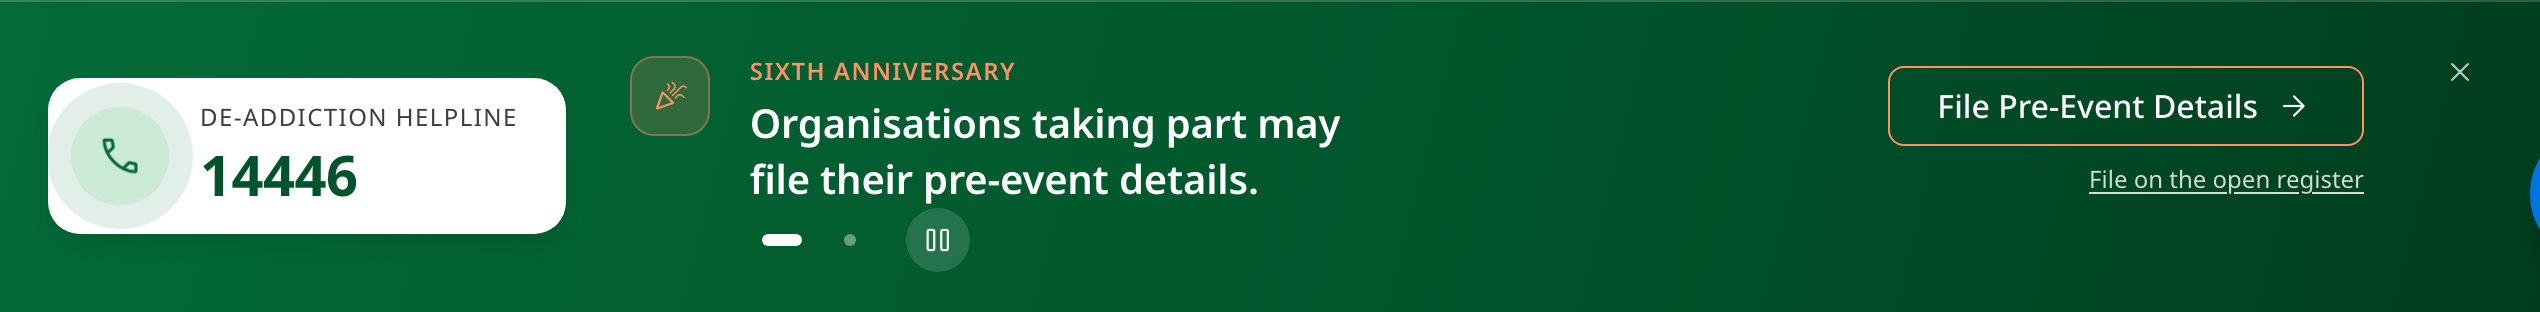
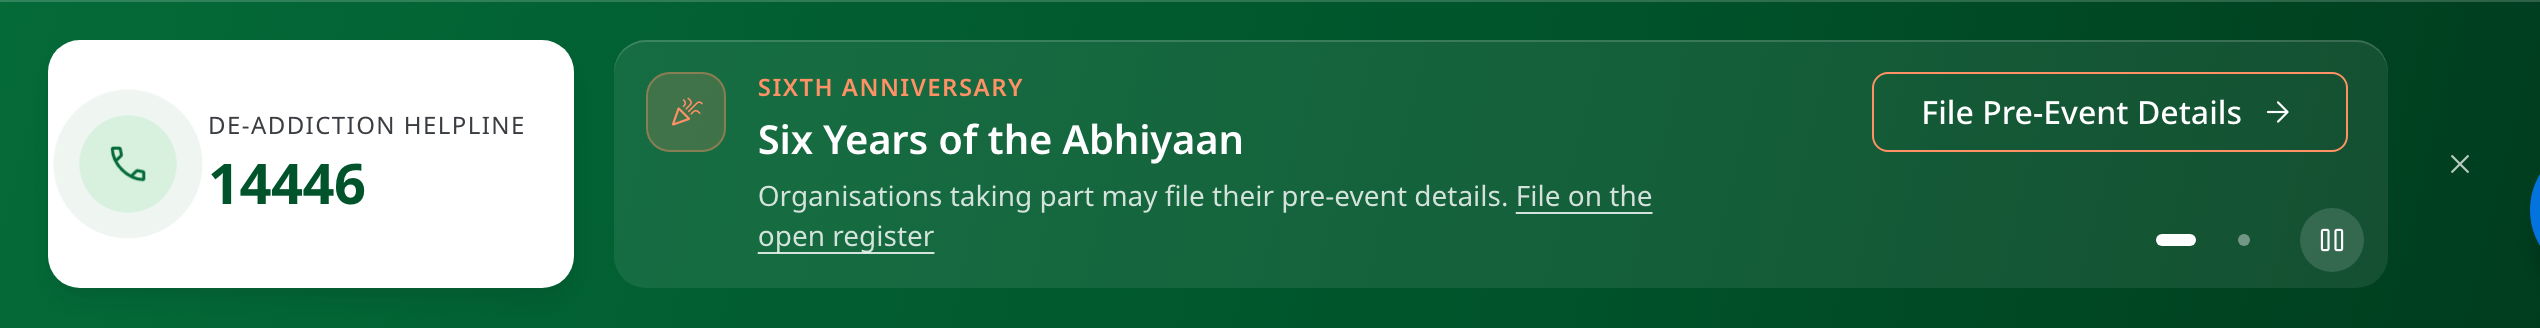
ds(explorations): the composed band, audited before it was shown
The first composition was four loose objects on a green field. Only the helpline
read as a thing; the rest was text and a button sitting on colour, so the band
said "one card and some writing" when it had to say "a number you can always
call, and a notice that changes".

THE STORY IS TOLD BY MATERIAL, NOT BY LABELS. Both halves are cards now, sharing
a top and a bottom edge: solid white is permanent, translucent glass is the half
that turns. A reader gets that before reading a word, and a label that says what
a shape already says is chrome.

BOTH PANELS TAKE THE SAME COPY SHAPE. One was an eyebrow over a sentence and the
other an eyebrow, heading, body and code — same box, different density, so the
band felt unsettled as it turned. The observance now uses the record's own
eyebrow as its heading and its sentence as the body: the department's words in
both slots, no invention.

THREE DEFECTS FOUND BY TESTING RATHER THAN LOOKING. The pager was UNCLICKABLE —
it shares the offer's grid cell, which is what makes the stage the height of its
tallest panel, so the offer painted over it and swallowed every click while
remaining perfectly visible. The pager also collided with the second route,
which has moved into the prose where it belongs, because "file on the open
register" is a condition attached to the offer and not a peer of the button. And
the reserved code track cost the panel without a code 104px of measure to hold
an action that flushing right already holds.
[…]

diff --git a/apps/hub/src/components/explorations/nmba/composed-band.css b/apps/hub/src/components/explorations/nmba/composed-band.css
@@ -29,11 +29,24 @@
       0 8px 20px -8px color-mix(in srgb, var(--sa-color-successScale-900) 60%, transparent);
   }
 
+  /*
+   * ── TWO CARDS ON ONE GROUND, AND THAT IS THE WHOLE STORY ────────────────
+   *
+   * The first pass put four loose objects on a green field: a white pill, an
+   * icon, some text, a button. Only the pill read as a THING, so the band said
+   * "one card and some writing" — not "a number you can always call, and a
+   * notice that changes".
+   *
+   * Both halves are cards now, sharing a top and a bottom edge, and the
+   * MATERIAL says which is which. Solid white is permanent; translucent glass
+   * is the one that turns. A reader gets that before reading a word, which is
+   * the only way a band this size can explain itself.
+   */
   .cband__inner {
     display: grid;
     grid-template-columns: auto minmax(0, 1fr) auto;
     align-items: stretch;
-    column-gap: var(--sa-inline-32);
+    column-gap: var(--sa-inline-20);
     padding-block: var(--sa-padding-20);
   }
 
@@ -47,8 +60,7 @@
     display: flex;
     align-items: center;
     gap: var(--sa-inline-16);
-    align-self: center;
-    padding: var(--sa-padding-12) var(--sa-padding-24) var(--sa-padding-12) var(--sa-padding-12);
+    padding: var(--sa-padding-16) var(--sa-padding-24) var(--sa-padding-16) var(--sa-padding-16);
     border-radius: var(--sa-shape-16);
     background-color: var(--sa-bg-neutral-base);
     color: var(--sa-color-successScale-700);
@@ -148,11 +160,24 @@
    * one and the band never resizes as it turns. `visibility: hidden` keeps the
    * inactive panel's space where `display: none` would collapse it.
    */
+  /*
+   * THE STAGE IS THE SECOND CARD — translucent, because it is the half that
+   * changes. Light catches its top edge the way it catches the band's, so it
+   * reads as a pane of glass laid on the green rather than a hole cut in it.
+   *
+   * Never a light translucent surface on another light one: the ground beneath
+   * is the band's own gradient, and the helpline beside it is solid.
+   */
   .cband__stage {
+    position: relative;
     display: grid;
     grid-template-areas: "offer";
     align-items: center;
-    padding-block-end: var(--sa-padding-24);
+    padding: var(--sa-padding-16) var(--sa-padding-20) var(--sa-padding-16) var(--sa-padding-16);
+    border-radius: var(--sa-shape-16);
+    background-color: color-mix(in srgb, var(--sa-text-neutral-inverse) 8%, transparent);
+    box-shadow: inset 0 var(--sa-stroke-1) 0 0
+      color-mix(in srgb, var(--sa-text-neutral-inverse) 16%, transparent);
   }
 
   /*
@@ -164,15 +189,18 @@
    * seconds. An element that persists across a transition must not move during
    * it; that is the difference between a panel changing and the band twitching.
    *
-   * The code's column is reserved at its own width whether or not a code is in
-   * it. An empty track is the price of a button that stays put.
+   * The code's column was reserved at 88px whether or not a code was in it, to
+   * hold the action still. It no longer has to: flushing the actions RIGHT does
+   * that on its own, and the empty track was costing the panel without a code
+   * 104px of measure — enough to wrap "File on the open register" mid-phrase.
+   * `auto` collapses it where there is no code, and the button does not move.
    */
   .cband__offer {
     grid-area: offer;
     display: grid;
-    grid-template-columns: auto minmax(0, 1fr) 88px auto;
+    grid-template-columns: auto minmax(0, 1fr) auto auto;
     align-items: center;
-    gap: var(--sa-inline-20);
+    gap: var(--sa-inline-16);
     visibility: hidden;
     opacity: 0;
     transform: translateY(6px);
@@ -285,11 +313,14 @@
    * "Register Now" adrift in ninety pixels of empty button; sharing the RIGHT
    * edge is what right-set actions do anyway, and it costs nothing.
    */
+  /* One control now, so the column is just the button — and the pager below it
+     has the corner to itself. */
   .cband__offer-actions {
     grid-column: 4;
     display: flex;
     flex-direction: column;
     align-items: flex-end;
+    align-self: start;
     gap: var(--sa-stack-8);
   }
 
@@ -298,7 +329,7 @@
   }
 
   .cband__alt {
-    font-size: var(--sa-type-label-3-size);
+    font-size: inherit;
     color: color-mix(in srgb, var(--sa-text-neutral-inverse) 82%, transparent);
     text-decoration: underline;
     text-underline-offset: 0.2em;
@@ -308,16 +339,31 @@
      Its scope is the only thing its position has to explain, so it sits under
      the rotating panel and nowhere near the band's own dismiss. */
 
-  /* Aligned with the COPY column, not the glyph: the pager belongs to the words
-     it pages, and a control that lines up with nothing reads as debris. */
+  /*
+   * THE PAGER IS INSIDE THE CARD IT PAGES.
+   *
+   * It floated in dead space under the copy, lined up with nothing, which is how
+   * a control comes to read as debris. Sitting in the glass card's own bottom
+   * corner it needs no explaining: this card turns, and this is what turns it.
+   */
+  /*
+   * IT HAS TO SIT ABOVE THE PANEL, because it shares the panel's grid cell.
+   *
+   * The offer and the pager are both `grid-area: offer` — that is what makes the
+   * stage the height of its tallest panel — so the offer paints over the pager
+   * and swallowed every click on the dots. Caught by driving a real click, not
+   * by looking: the control was perfectly visible the entire time.
+   */
   .cband__pager {
+    position: relative;
+    z-index: var(--sa-z-raised);
     grid-area: offer;
-    place-self: end start;
+    place-self: end end;
     display: flex;
     align-items: center;
     gap: var(--sa-inline-4);
-    margin-inline-start: calc(var(--sa-control-height-md) + var(--sa-inline-20));
-    margin-block-end: calc(-1 * var(--sa-padding-24));
+    margin-block-end: calc(-1 * var(--sa-padding-8));
+    margin-inline-end: calc(-1 * var(--sa-padding-8));
   }
 
   .cband__dots {
@@ -380,10 +426,12 @@
 
   /* ── The band's own dismiss, at the band's own corner ─────────────────── */
 
+  /* On the GROUND, between the cards and the band's edge, vertically centred —
+     it belongs to the band, so it stands outside both of them. */
   .cband__dismiss {
     display: grid;
     place-items: center;
-    align-self: start;
+    align-self: center;
     inline-size: var(--sa-control-height-sm);
     block-size: var(--sa-control-height-sm);
     border-radius: var(--sa-shape-8);

diff --git a/apps/hub/src/components/explorations/nmba/ComposedBandOption.tsx b/apps/hub/src/components/explorations/nmba/ComposedBandOption.tsx
@@ -52,7 +52,8 @@ const OFFERS = [
     accent: "saffron",
     icon: "celebration",
     eyebrow: "Sixth Anniversary",
-    heading: NMBA.ribbon.text,
+    heading: NMBA.ribbon.eyebrow,
+    body: NMBA.ribbon.text,
     action: { label: NMBA.ribbon.action.label, href: NMBA.ribbon.action.href, icon: "arrow_forward" },
     alt: NMBA.ribbon.alt,
     qr: null,
@@ -169,7 +170,27 @@ export function ComposedBand() {
                   <div className="cband__offer-copy">
                     <p className="cband__offer-eyebrow">{o.eyebrow}</p>
                     <p className="cband__offer-heading">{o.heading}</p>
-                    {"body" in o && o.body ? <p className="cband__offer-body">{o.body}</p> : null}
+                    <p className="cband__offer-body">
+                      {o.body}
+                      {/*
+                       * THE SECOND ROUTE IS A NOTE ON THE OFFER, NOT A PEER OF
+                       * THE BUTTON.
+                       *
+                       * Stacked under the action it made three things share one
+                       * corner — button, link, pager — and the pager ended up
+                       * touching the link. It is also the wrong reading: "file
+                       * on the open register" is a condition attached to the
+                       * offer, and conditions live with the prose.
+                       */}
+                      {"alt" in o && o.alt ? (
+                        <>
+                          {" "}
+                          <a className="cband__alt" href={o.alt.href}>
+                            {o.alt.label}
+                          </a>
+                        </>
+                      ) : null}
+                    </p>
                   </div>
 
                   {o.qr ? (
@@ -188,11 +209,6 @@ export function ComposedBand() {
                       <span>{o.action.label}</span>
                       <Icon name={o.action.icon} size={20} aria-hidden />
                     </a>
-                    {"alt" in o && o.alt ? (
-                      <a className="cband__alt" href={o.alt.href}>
-                        {o.alt.label}
-                      </a>
-                    ) : null}
                   </div>
                 </div>
               ))}

diff --git a/docs/audit/nmba-page-audit-2026-09-08.md b/docs/audit/nmba-page-audit-2026-09-08.md
@@ -1189,3 +1189,54 @@ a filled well at rest: at 78% ink on a dark ground it was a hairline.
 Anchoring verified: glyph at x=400 and CTA right edge at 1267 on **both** panels.
 
 Stills: `cband-1.png`, `cband-2.png`, `cband-both.png`.
+
+---
+
+## 22. The composed band, audited by its author before it was shown
+
+The first composition was four loose objects on a green field. Only the helpline
+read as a THING; the rest was text and a button sitting on colour. So the band
+said "one card and some writing" when it needed to say *"a number you can always
+call, and a notice that changes."*
+
+### The story is told by material, not by labels
+
+Both halves are cards now, sharing a top and a bottom edge — verified at y=845
+and bottom=969 on both panels. **Solid white is permanent; translucent glass is
+the half that turns.** A reader gets that before reading a word, which is the
+only way a band this size explains itself. No "NEED HELP" or "WHAT'S ON" headers:
+a label that says what a shape already says is chrome.
+
+### Both panels take the same copy shape
+
+Panel one was an eyebrow over a two-line sentence; panel two was an eyebrow,
+heading, body and a code. Same box, different density, so the band felt unsettled
+as it turned. The observance now uses **the record's own eyebrow as its heading
+and its sentence as the body** — the department's words in both slots, no
+invention, and the two panels are the same object with different content.
+
+### Three defects found by testing rather than looking
+
+| | What happened | Why looking missed it |
+|---|---|---|
+| **The pager was unclickable** | The offer and the pager share `grid-area: offer` — which is what makes the stage the height of its tallest panel — so the offer painted over the pager and swallowed every click | The dots were perfectly visible the whole time. Only driving a real click found it |
+| The pager collided with the second route | Button, link and pager stacked in one corner | It looked merely tight |
+| The empty code track cost 104px of measure | Reserved at 88px to hold the action still — which flushing the actions right already does | Nothing was visibly broken; the copy just wrapped early |
+
+The second route moved into the prose, where it belongs: *"file on the open
+register"* is a condition attached to the offer, not a peer of the button.
+
+### Anchored, and verified
+
+| | Panel 1 | Panel 2 |
+|---|---|---|
+| Band height | 164 | 164 |
+| CTA right edge | 1259 | 1259 |
+| Cards' top / bottom | 845 / 969 | 845 / 969 |
+| Pager clearance under the CTA | 28px | 28px |
+
+Nothing that persists across the turn moves during it.
+
+**Known and accepted:** on the observance panel the inline route wraps as "File
+on the / open register". The alternative is a third element stacked in the action
+corner, which is the collision this pass removed.
